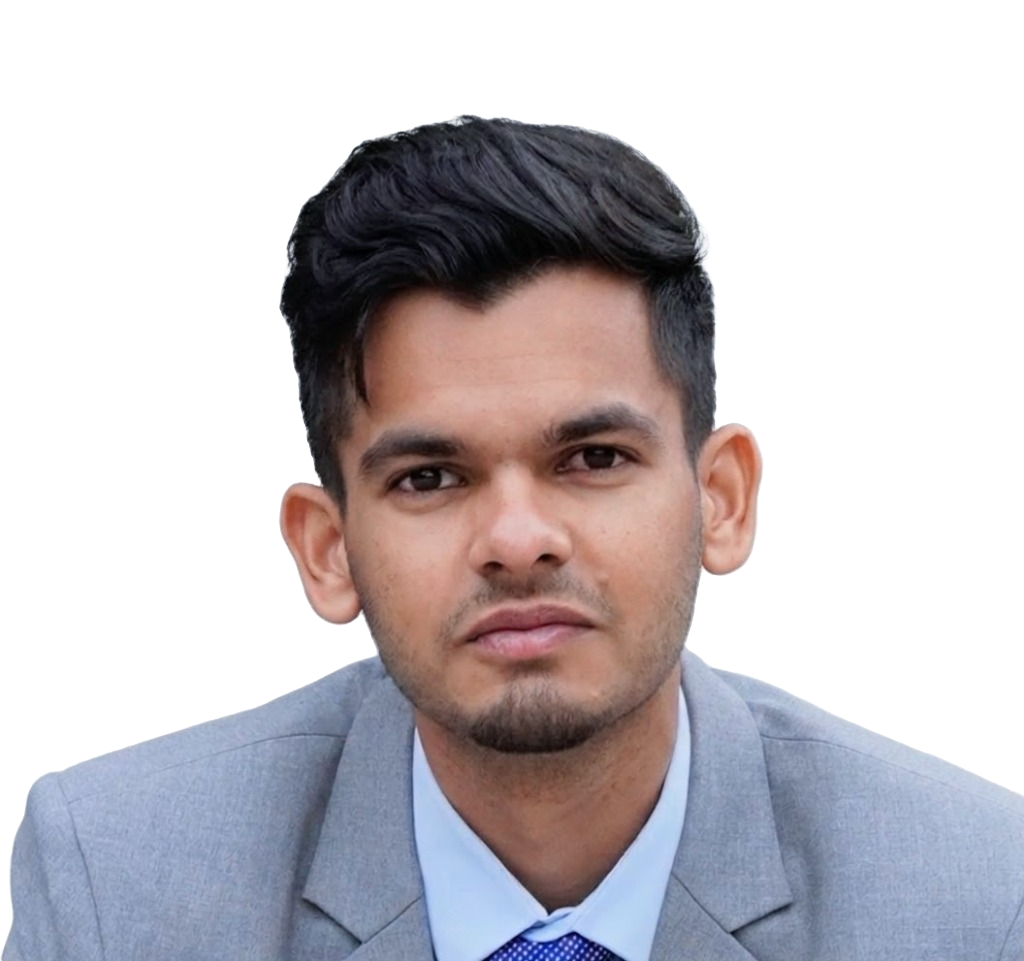
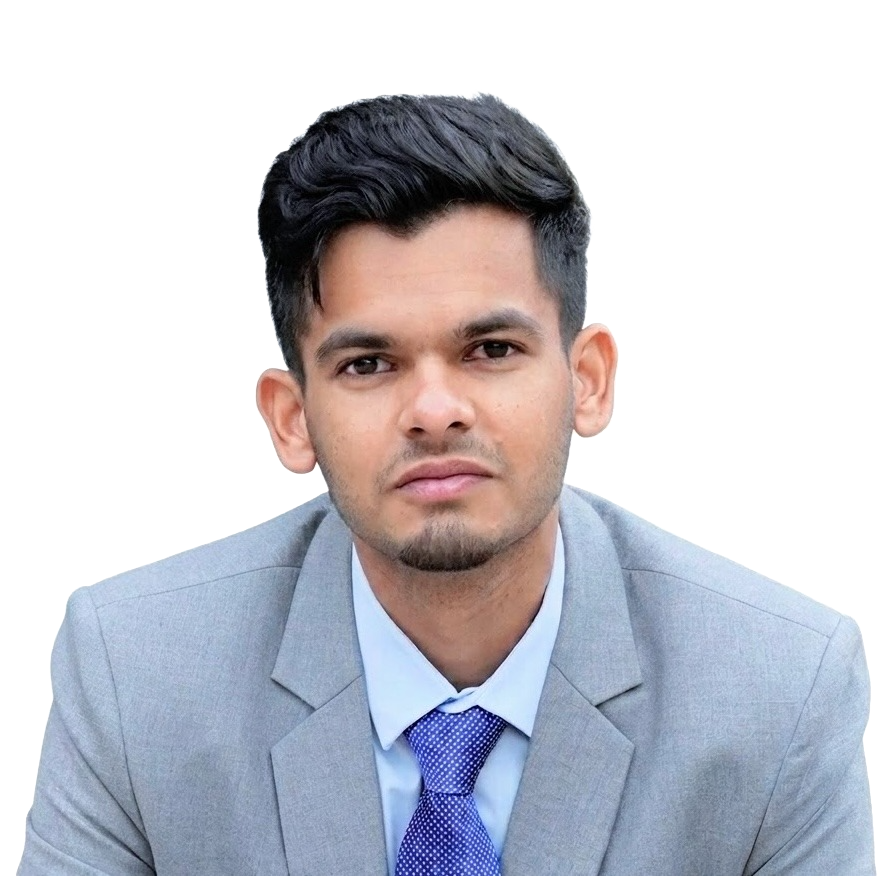
feat: update hero portrait with new clean cutout and raised framing

diff --git a/styles.css b/styles.css
@@ -455,11 +455,11 @@ body {
 /* LAYER 3: Centered Studio Color Portrait Cutout */
 .hero-portrait-container {
   position: absolute;
-  bottom: 0;
+  bottom: 12px;
   left: 50%;
   transform: translateX(-50%);
-  width: min(640px, 88vw);
-  height: 645px;
+  width: min(650px, 90vw);
+  height: 655px;
   z-index: 3;
   display: flex;
   align-items: flex-end;
